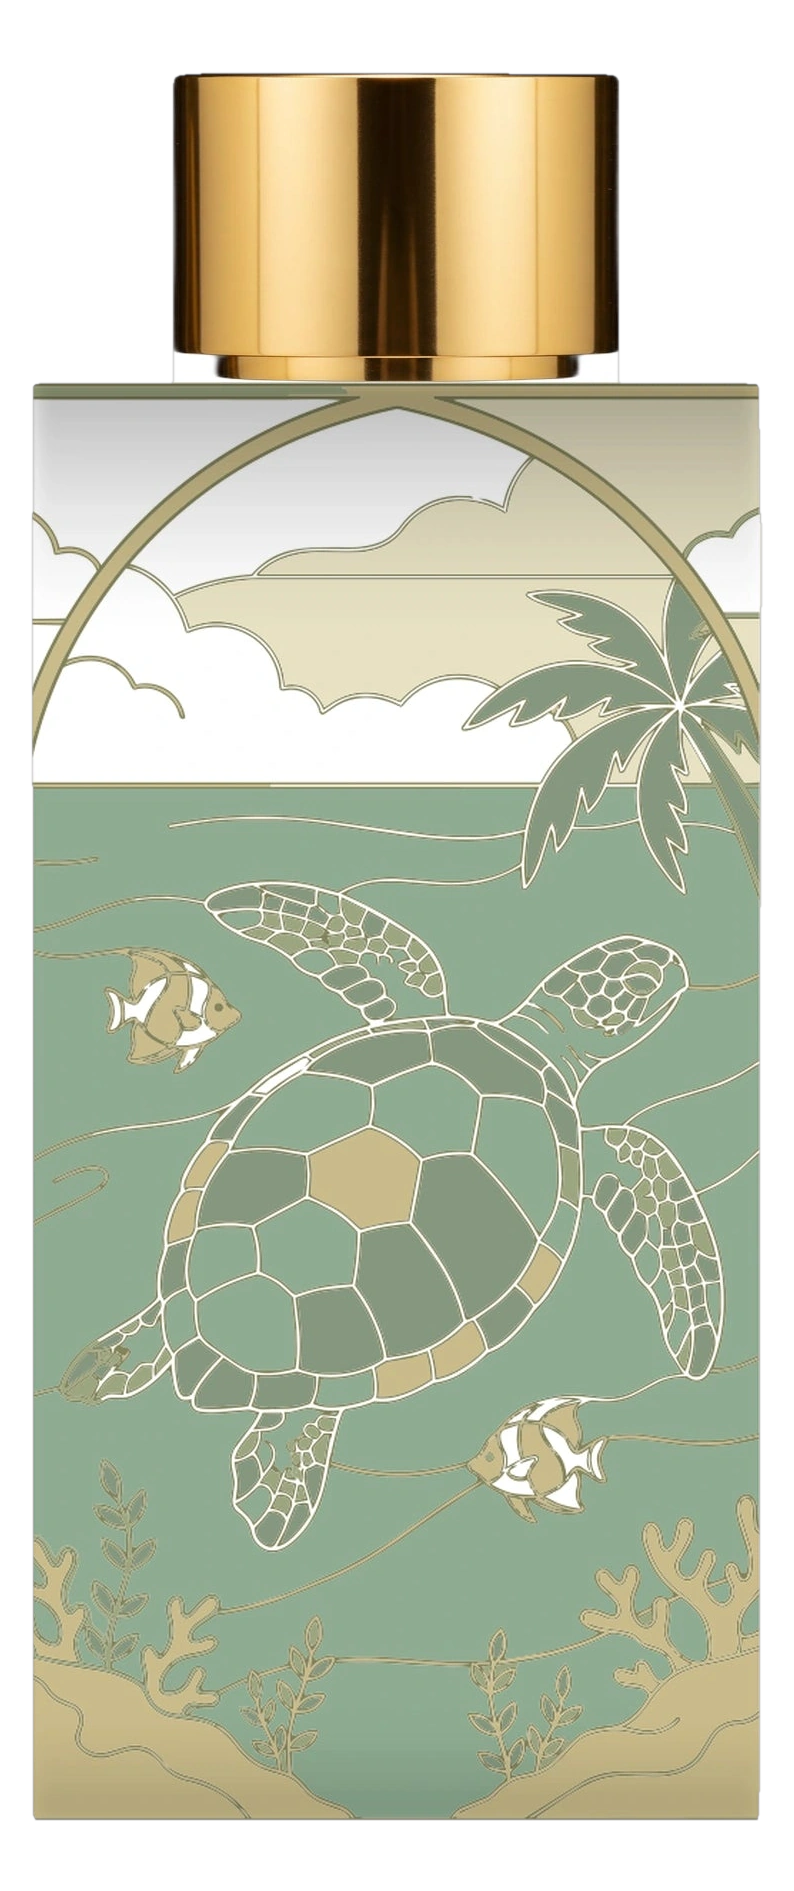
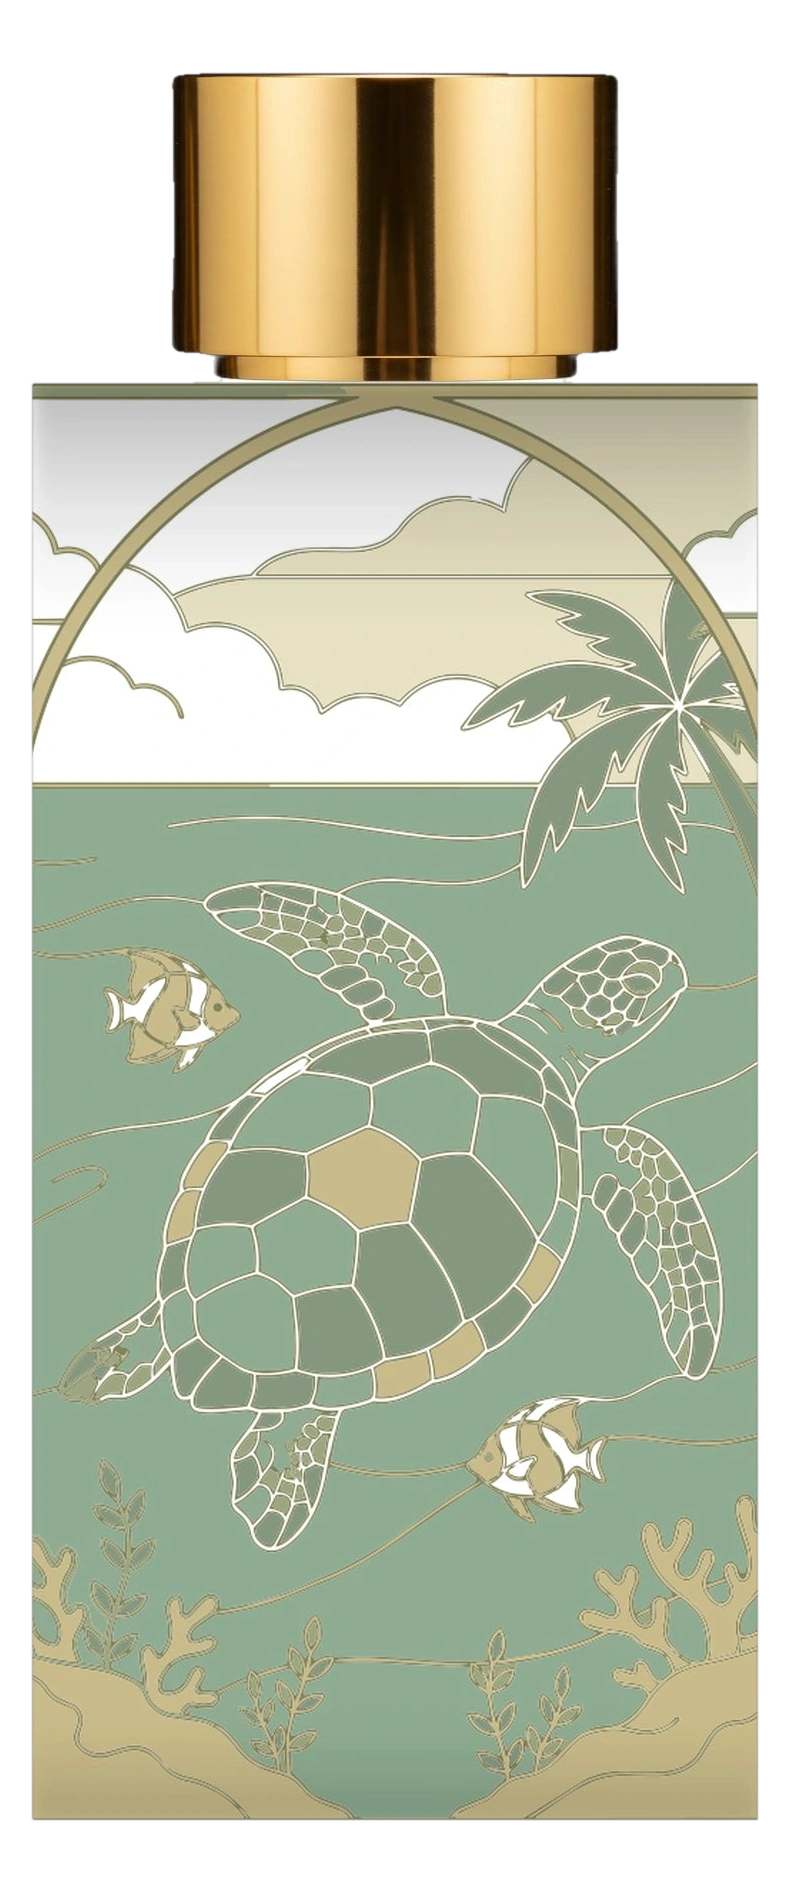
fix: Karès recto/verso v5 géométrique (nuages entiers, jonction réelle) + Paradise Islands sur /en/ + resync COMPLÈTE des assets

diff --git a/en/index.html b/en/index.html
@@ -3,16 +3,19 @@
 <head>
 <meta charset="UTF-8">
 <meta name="viewport" content="width=device-width, initial-scale=1.0">
-<title>AB Signature Paris — Îles Paradisiaques · Extraits de Parfum 25&nbsp;%</title>
+<title>AB Signature Paris — Paradise Islands · Extraits de Parfum 25&nbsp;%</title>
 <link rel="alternate" hreflang="fr" href="https://www.absignatureparis.com/">
 <link rel="alternate" hreflang="en" href="https://www.absignatureparis.com/en/">
 <link rel="alternate" hreflang="x-default" href="https://www.absignatureparis.com/">
-<meta name="description" content="AB Signature Paris — Îles Paradisiaques. Three 25% extraits de parfum composed in Grasse: Oro Rojo (Aruba), Karès Blan (La Digue), Ahi Pō (Moorea). Limited series editions.">
+<meta name="description" content="AB Signature Paris — Paradise Islands. Three 25% extraits de parfum composed in Grasse: Oro Rojo (Aruba), Karès Blan (La Digue), Ahi Pō (Moorea). Limited series editions.">
 <link rel="icon" type="image/png" href="/assets/favicon.png">
 <link rel="apple-touch-icon" href="/assets/favicon.png">
 <link rel="canonical" href="https://www.absignatureparis.com/en/">
+<link rel="alternate" hreflang="fr" href="https://www.absignatureparis.com/">
+<link rel="alternate" hreflang="en" href="https://www.absignatureparis.com/en/">
+<link rel="alternate" hreflang="x-default" href="https://www.absignatureparis.com/">
 <meta property="og:type" content="website">
-<meta property="og:title" content="AB Signature Paris — Îles Paradisiaques">
+<meta property="og:title" content="AB Signature Paris — Paradise Islands">
 <meta property="og:description" content="Three islands, three hours of the world. 25% extraits de parfum composed in Grasse — Oro Rojo, Karès Blan, Ahi Pō.">
 <meta property="og:url" content="https://www.absignatureparis.com/en/">
 <meta property="og:image" content="https://www.absignatureparis.com/assets/og_image.jpg">
@@ -473,6 +476,7 @@ body.wl-open{overflow:hidden}
     <li class="hide-m"><a href="mailto:[email redacted]">Contact</a></li>
     <li><a class="bag" href="#collection" data-waitlist data-product="Oro Rojo">Reserve</a></li>
     <li><a class="lang" href="/" title="Version française">FR</a></li>
+    <li><a class="lang" href="/en/" title="English version">EN</a></li>
   </ul>
 </nav>
 
@@ -497,7 +501,7 @@ body.wl-open{overflow:hidden}
 <!-- MANIFESTE -->
 <section class="manifesto">
   <div class="wrap">
-    <div class="eyebrow rv">Îles Paradisiaques · Three extraits de parfum</div>
+    <div class="eyebrow rv">Paradise Islands · Three extraits de parfum</div>
     <p class="lead rv rv-d1" style="margin-top:2.6rem">Some journeys cannot be drawn
     on maps.</p>
     <p class="small rv rv-d2">Three islands, three hours of the world&nbsp;— Aruba’s sunset, La&nbsp;Digue’s high noon,
@@ -636,7 +640,7 @@ body.wl-open{overflow:hidden}
     <div>
       <div class="eyebrow rv">The House</div>
       <h2 class="rv rv-d1">Composed in Grasse</h2>
-      <p class="rv rv-d2">The three fragrances of the Îles Paradisiaques collection are 25%
+      <p class="rv rv-d2">The three fragrances of the Paradise Islands collection are 25%
       extraits de parfum&nbsp;— the noblest concentration&nbsp;— composed in Grasse,
       cradle of French perfumery.</p>
       <p class="rv rv-d2">Each 50&nbsp;ml bottle is dressed in an engraved scene, signed with the arch and the
@@ -679,7 +683,7 @@ body.wl-open{overflow:hidden}
     <button class="wl-close" type="button" aria-label="Close" data-wl-close>&times;</button>
     <div class="eyebrow">Waiting list</div>
     <h3 class="wl-title gold" id="wlTitle">Reserve</h3>
-    <p class="wl-sub">The editions of the Îles Paradisiaques collection are crafted in limited series.
+    <p class="wl-sub">The editions of the Paradise Islands collection are crafted in limited series.
     Sign up&nbsp;— you will be the first to know when orders open, with no obligation.</p>
     <form id="wlForm" novalidate>
       <fieldset class="wl-group" id="wlProducts" aria-label="Parfum">